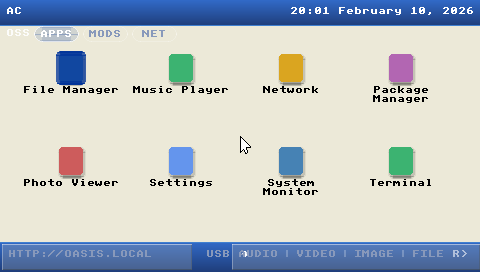
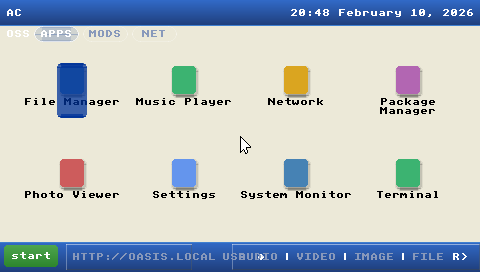
fix(ui): round 2 visual polish -- URL/USB overlap, label shadows, screenshots
- Fix URL/USB text overlap: position USB after URL text end, not bezel end
- Add icon_shadow2_{i} SDI objects for second-line label shadows
- Guard version/clock overlap: hide version when it would collide with clock
- Screenshot tool: render start button when start_menu feature is enabled
- Screenshot tool: save to screenshots/{skin_name}/ for side-by-side comparison
- Remove stale root-level screenshots, add screenshots/classic/

diff --git a/crates/oasis-app/src/screenshot.rs b/crates/oasis-app/src/screenshot.rs
@@ -1,17 +1,18 @@
 //! Screenshot capture tool for PSIX visual comparison.
 //!
 //! Renders the OASIS_OS UI in several states and saves PNG screenshots
-//! to `screenshots/` next to the repo root. Compare these against
-//! `Psixpsp.png` to iterate on the visual design.
+//! to `screenshots/{skin_name}/` next to the repo root. Compare these
+//! against `Psixpsp.png` to iterate on the visual design.
 //!
 //! Usage:
-//!   cargo run -p oasis-app --bin oasis-screenshot
+//!   cargo run -p oasis-app --bin oasis-screenshot [skin_name]
+//!   OASIS_SKIN=xp cargo run -p oasis-app --bin oasis-screenshot
 //!
 //! Output:
-//!   screenshots/01_dashboard.png   -- Main dashboard view
-//!   screenshots/02_media_tab.png   -- AUDIO media tab selected
-//!   screenshots/03_mods_tab.png    -- MODS top tab selected
-//!   screenshots/04_terminal.png    -- Terminal mode
+//!   screenshots/{skin}/01_dashboard.png   -- Main dashboard view
+//!   screenshots/{skin}/02_media_tab.png   -- AUDIO media tab selected
+//!   screenshots/{skin}/03_mods_tab.png    -- MODS top tab selected
+//!   screenshots/{skin}/04_terminal.png    -- Terminal mode
 
 use std::fs;
 use std::path::Path;
@@ -27,6 +28,7 @@ use oasis_core::platform::DesktopPlatform;
 use oasis_core::platform::{PowerService, TimeService};
 use oasis_core::sdi::SdiRegistry;
 use oasis_core::skin::resolve_skin;
+use oasis_core::startmenu::StartMenuState;
 use oasis_core::statusbar::StatusBar;
 use oasis_core::vfs::MemoryVfs;
 use oasis_core::wallpaper;
@@ -59,6 +61,16 @@ fn main() -> anyhow::Result<()> {
     let mut status_bar = StatusBar::new();
     let mut bottom_bar = BottomBar::new();
     bottom_bar.total_pages = dashboard.page_count();
+
+    // Start menu (when enabled by skin).
+    let start_menu = if skin.features.start_menu {
+        Some(StartMenuState::new_with_theme(
+            StartMenuState::default_items(),
+            &active_theme,
+        ))
+    } else {
+        None
+    };
 
     let mut sdi = SdiRegistry::new();
     skin.apply_layout(&mut sdi);
@@ -95,14 +107,17 @@ fn main() -> anyhow::Result<()> {
     let power = platform.power_info().ok();
     status_bar.update_info(time.as_ref(), power.as_ref());
 
-    // Create output directory.
-    let out_dir = Path::new("screenshots");
-    fs::create_dir_all(out_dir)?;
+    // Create skin-specific output directory.
+    let out_dir = Path::new("screenshots").join(&skin_name);
+    fs::create_dir_all(&out_dir)?;
 
     // -- Screenshot 1: Dashboard --
     dashboard.update_sdi(&mut sdi, &active_theme);
     status_bar.update_sdi(&mut sdi, &active_theme, &skin.features);
     bottom_bar.update_sdi(&mut sdi, &active_theme, &skin.features);
+    if let Some(ref sm) = start_menu {
+        sm.update_sdi(&mut sdi, &active_theme);
+    }
     mouse_cursor.update_sdi(&mut sdi);
     render_and_save(
         &mut backend,
@@ -116,6 +131,9 @@ fn main() -> anyhow::Result<()> {
     // -- Screenshot 2: AUDIO media tab --
     bottom_bar.active_tab = MediaTab::Audio;
     dashboard.hide_sdi(&mut sdi);
+    if let Some(ref sm) = start_menu {
+        sm.hide_sdi(&mut sdi);
+    }
     status_bar.update_sdi(&mut sdi, &active_theme, &skin.features);
     bottom_bar.update_sdi(&mut sdi, &active_theme, &skin.features);
     update_media_page(&mut sdi, &bottom_bar);
@@ -136,6 +154,9 @@ fn main() -> anyhow::Result<()> {
     dashboard.update_sdi(&mut sdi, &active_theme);
     status_bar.update_sdi(&mut sdi, &active_theme, &skin.features);
     bottom_bar.update_sdi(&mut sdi, &active_theme, &skin.features);
+    if let Some(ref sm) = start_menu {
+        sm.update_sdi(&mut sdi, &active_theme);
+    }
     mouse_cursor.update_sdi(&mut sdi);
     render_and_save(
         &mut backend,
@@ -150,6 +171,9 @@ fn main() -> anyhow::Result<()> {
     dashboard.hide_sdi(&mut sdi);
     StatusBar::hide_sdi(&mut sdi);
     BottomBar::hide_sdi(&mut sdi);
+    if let Some(ref sm) = start_menu {
+        sm.hide_sdi(&mut sdi);
+    }
     hide_media_page(&mut sdi);
     setup_terminal_objects(
         &mut sdi,
@@ -175,7 +199,7 @@ fn main() -> anyhow::Result<()> {
 
     backend.shutdown()?;
 
-    println!("Screenshots saved to screenshots/");
+    println!("Screenshots saved to {}/", out_dir.display());
     println!("Compare against Psixpsp.png at the repo root.");
     Ok(())
 }

diff --git a/crates/oasis-core/src/dashboard/mod.rs b/crates/oasis-core/src/dashboard/mod.rs
@@ -188,6 +188,7 @@ impl DashboardState {
             let label_name = format!("icon_label_{i}");
             let label2_name = format!("icon_label2_{i}");
             let shadow_name = format!("icon_shadow_{i}");
+            let shadow2_name = format!("icon_shadow2_{i}");
 
             for name in [
                 &outline_name,
@@ -198,6 +199,7 @@ impl DashboardState {
                 &label_name,
                 &label2_name,
                 &shadow_name,
+                &shadow2_name,
             ] {
                 if !sdi.contains(name) {
                     sdi.create(name);
@@ -260,6 +262,7 @@ impl DashboardState {
                     &label_name,
                     &label2_name,
                     &shadow_name,
+                    &shadow2_name,
                 ] {
                     if let Ok(obj) = sdi.get_mut(name) {
                         obj.visible = false;
@@ -377,8 +380,9 @@ impl DashboardState {
         let lines = Self::wrap_label(title, max_chars);
         let line_h = glyph_w as i32 + 1; // 1px spacing between lines
 
-        // Label shadow (1px offset, uses icon_shadow_{i} as the SDI object).
+        // Label shadows (1px offset).
         if let Some(shadow_color) = at.icon_label_shadow {
+            // Shadow for line 1.
             if let Ok(obj) = sdi.get_mut(&format!("icon_shadow_{i}")) {
                 if let Some(line) = lines.first() {
                     let tw = line.len() as i32 * glyph_w as i32;
@@ -395,8 +399,30 @@ impl DashboardState {
                     obj.visible = false;
                 }
             }
-        } else if let Ok(obj) = sdi.get_mut(&format!("icon_shadow_{i}")) {
-            obj.visible = false;
+            // Shadow for line 2.
+            if let Ok(obj) = sdi.get_mut(&format!("icon_shadow2_{i}")) {
+                if lines.len() > 1 {
+                    let tw = lines[1].len() as i32 * glyph_w as i32;
+                    obj.x = cell_x + (cell_w as i32 - tw) / 2 + 1;
+                    obj.y = label_y + line_h + 1;
+                    obj.w = 0;
+                    obj.h = 0;
+                    obj.font_size = fs;
+                    obj.text = Some(lines[1].clone());
+                    obj.text_color = shadow_color;
+                    obj.visible = true;
+                    obj.color = Color::rgba(0, 0, 0, 0);
+                } else {
+                    obj.visible = false;
+                }
+            }
+        } else {
+            if let Ok(obj) = sdi.get_mut(&format!("icon_shadow_{i}")) {
+                obj.visible = false;
+            }
+            if let Ok(obj) = sdi.get_mut(&format!("icon_shadow2_{i}")) {
+                obj.visible = false;
+            }
         }
 
         // Line 1.
@@ -627,6 +653,7 @@ impl DashboardState {
                 "icon_fold_",
                 "icon_gfx_",
                 "icon_shadow_",
+                "icon_shadow2_",
             ] {
                 let name = format!("{prefix}{i}");
                 if let Ok(obj) = sdi.get_mut(&name) {

diff --git a/crates/oasis-core/src/statusbar.rs b/crates/oasis-core/src/statusbar.rs
@@ -191,42 +191,51 @@ impl StatusBar {
             obj.visible = false;
         }
 
-        // Version label (center area).
-        if features.show_version {
-            let ver = "Version 0.1";
-            let ver_w = ver.len() as i32 * char_w;
-            let ver_x = (screen_w as i32 - ver_w) / 2;
-            ensure_text(sdi, "bar_version", ver_x, text_y, font_small, at.version_color);
-            if let Ok(obj) = sdi.get_mut("bar_version") {
-                obj.text = Some(ver.to_string());
-                obj.visible = true;
-            }
-        } else if let Ok(obj) = sdi.get_mut("bar_version") {
-            obj.visible = false;
-        }
-
-        // Clock + date (right side, right-aligned).
-        if features.show_clock {
+        // Clock + date (right side, right-aligned).  Compute first so
+        // version can check for overlap.
+        let clock_x = if features.show_clock {
             let clock_str = if self.date_text.is_empty() {
                 self.clock_text.clone()
             } else {
                 format!("{} {}", self.clock_text, self.date_text)
             };
             let clock_w = clock_str.len() as i32 * char_w;
-            let clock_x = screen_w as i32 - clock_w - 6;
-            ensure_text(
-                sdi,
-                "bar_clock",
-                clock_x,
-                text_y,
-                font_small,
-                at.clock_color,
-            );
+            let cx = screen_w as i32 - clock_w - 6;
+            ensure_text(sdi, "bar_clock", cx, text_y, font_small, at.clock_color);
             if let Ok(obj) = sdi.get_mut("bar_clock") {
                 obj.text = Some(clock_str);
                 obj.visible = true;
             }
-        } else if let Ok(obj) = sdi.get_mut("bar_clock") {
+            cx
+        } else {
+            if let Ok(obj) = sdi.get_mut("bar_clock") {
+                obj.visible = false;
+            }
+            screen_w as i32
+        };
+
+        // Version label (center area) -- hidden when it would overlap clock.
+        if features.show_version {
+            let ver = "Version 0.1";
+            let ver_w = ver.len() as i32 * char_w;
+            let ver_x = (screen_w as i32 - ver_w) / 2;
+            if ver_x + ver_w <= clock_x {
+                ensure_text(
+                    sdi,
+                    "bar_version",
+                    ver_x,
+                    text_y,
+                    font_small,
+                    at.version_color,
+                );
+                if let Ok(obj) = sdi.get_mut("bar_version") {
+                    obj.text = Some(ver.to_string());
+                    obj.visible = true;
+                }
+            } else if let Ok(obj) = sdi.get_mut("bar_version") {
+                obj.visible = false;
+            }
+        } else if let Ok(obj) = sdi.get_mut("bar_version") {
             obj.visible = false;
         }
 

diff --git a/crates/oasis-core/src/bottombar.rs b/crates/oasis-core/src/bottombar.rs
@@ -253,8 +253,10 @@ impl BottomBar {
             hide_bezel(sdi, "bar_tab_bezel");
         }
 
-        // USB indicator (between bezels).
-        let usb_x = url_bx + url_bw as i32 + 14;
+        // USB indicator (after URL text, not bezel -- avoids overlap).
+        let url_text = "HTTP://OASIS.LOCAL";
+        let url_text_end = 8 + url_offset + url_text.len() as i32 * char_w;
+        let usb_x = url_text_end + 6;
         ensure_text(sdi, "bar_usb", usb_x, text_y, font_small, at.usb_color);
         if let Ok(obj) = sdi.get_mut("bar_usb") {
             obj.text = Some("USB".to_string());
